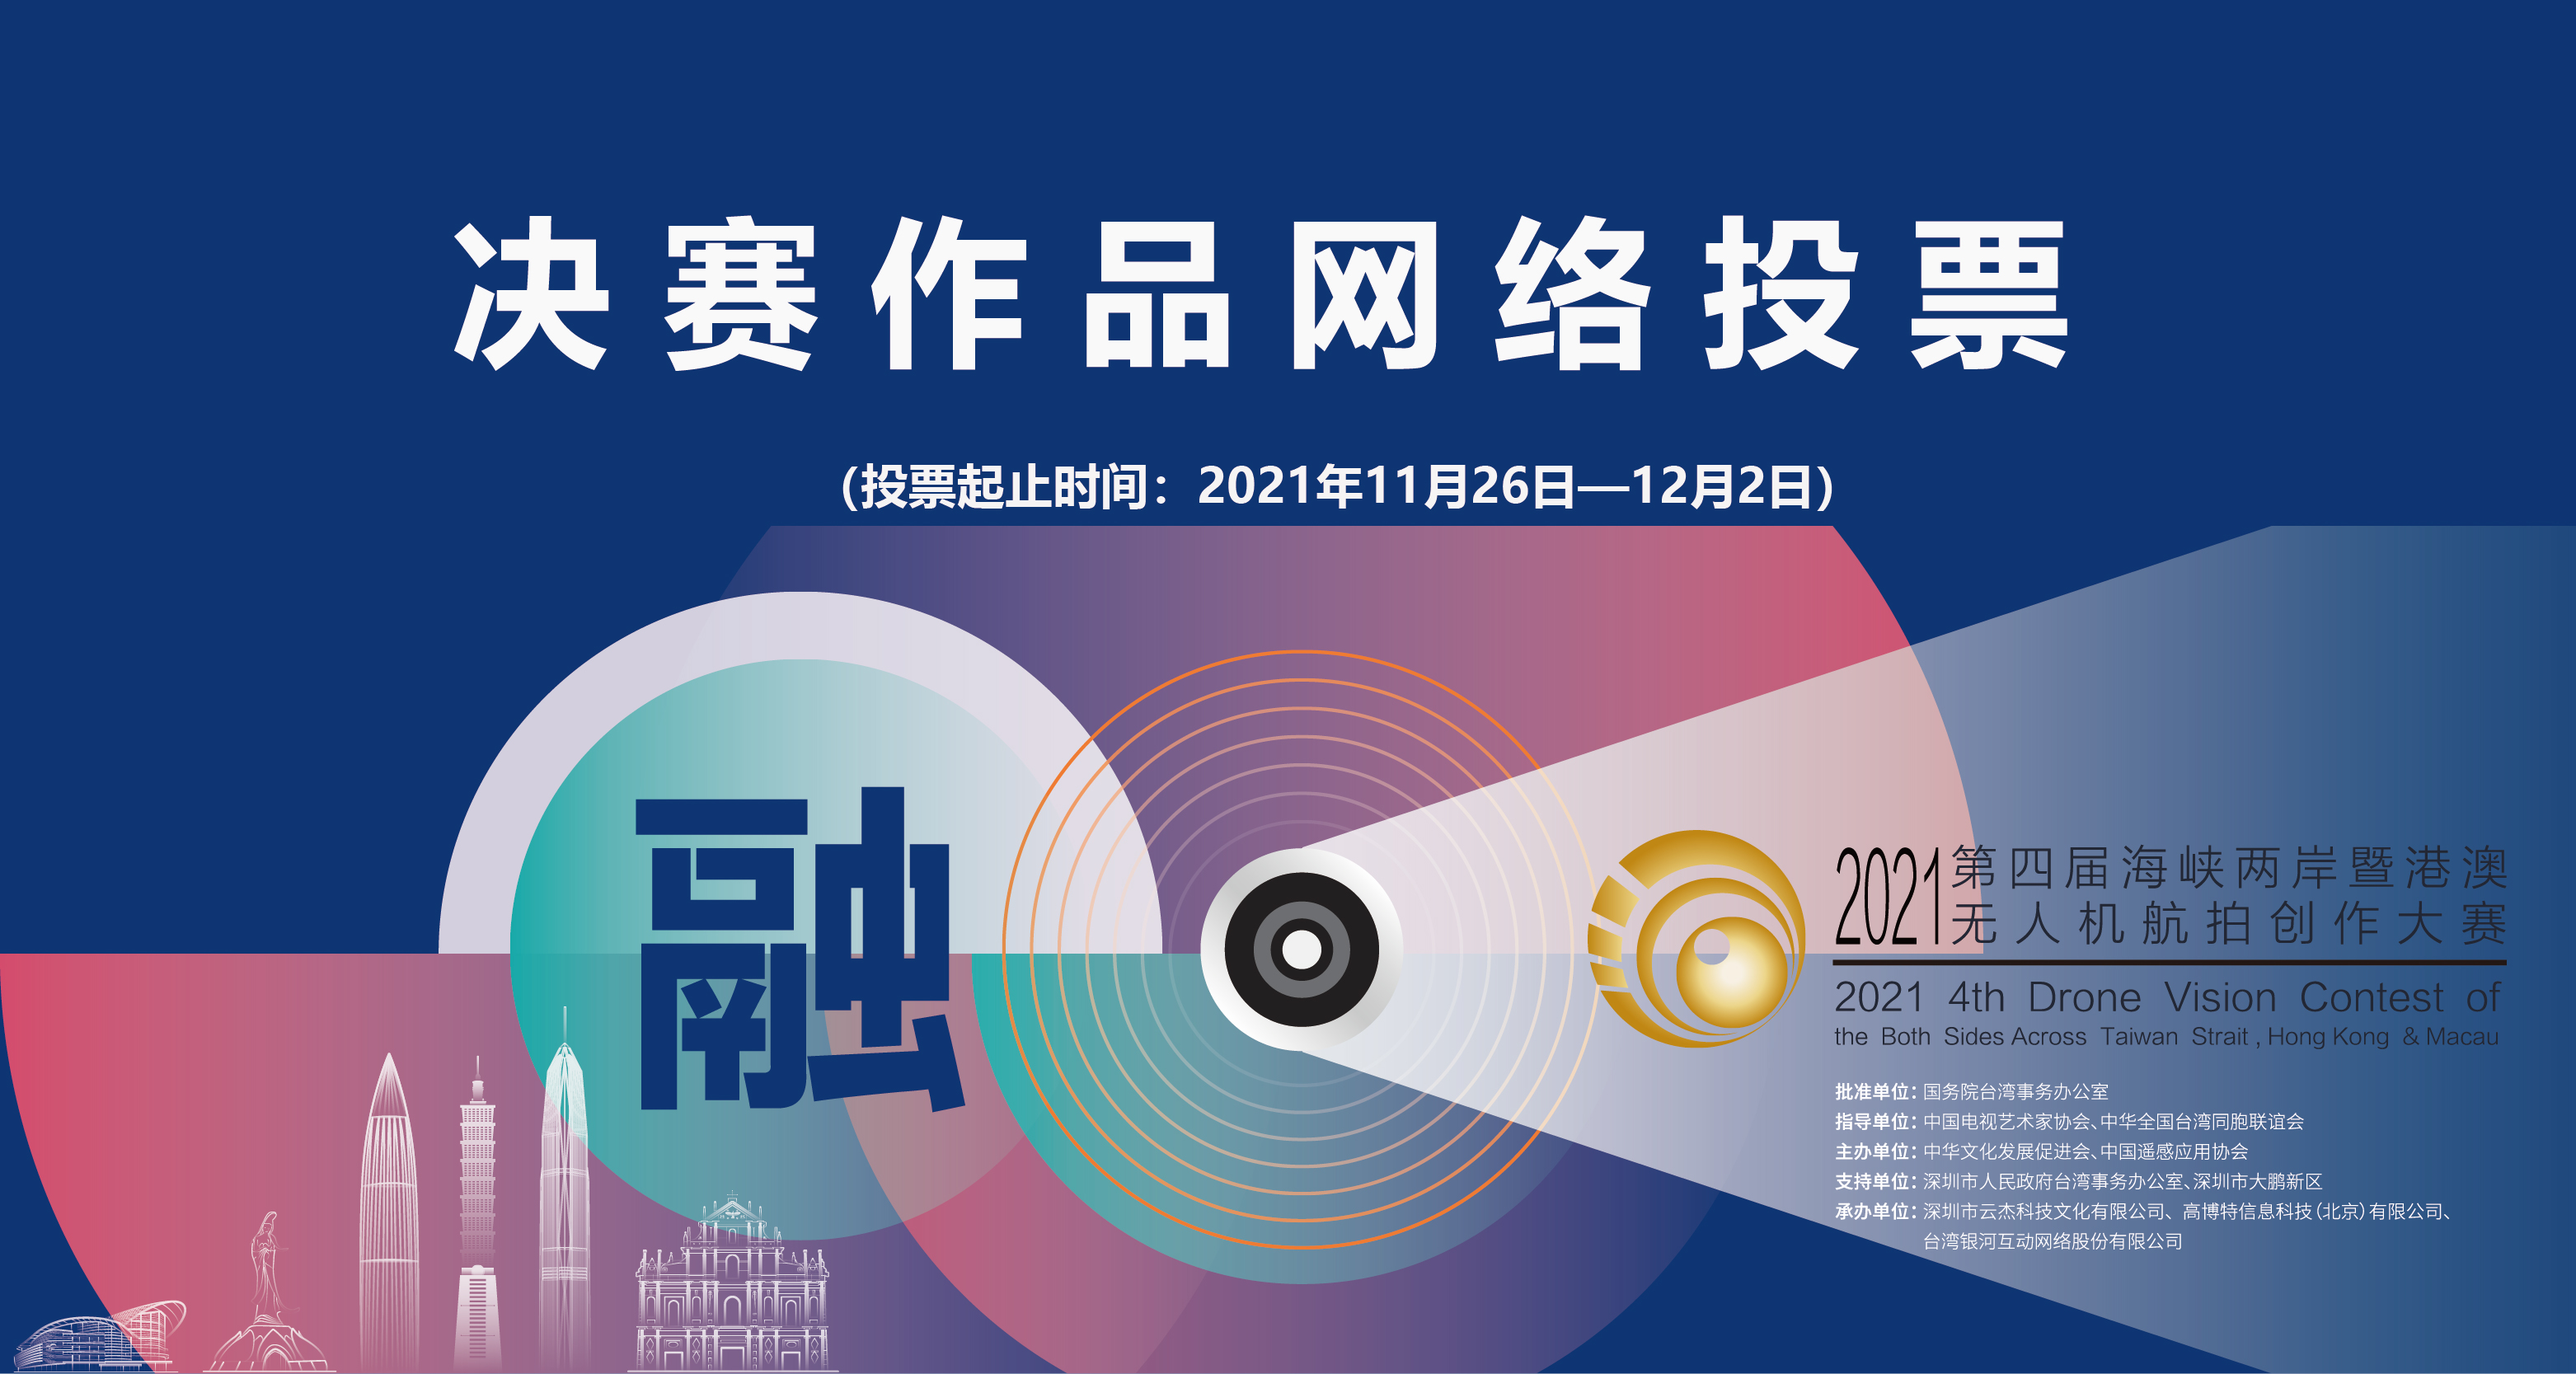
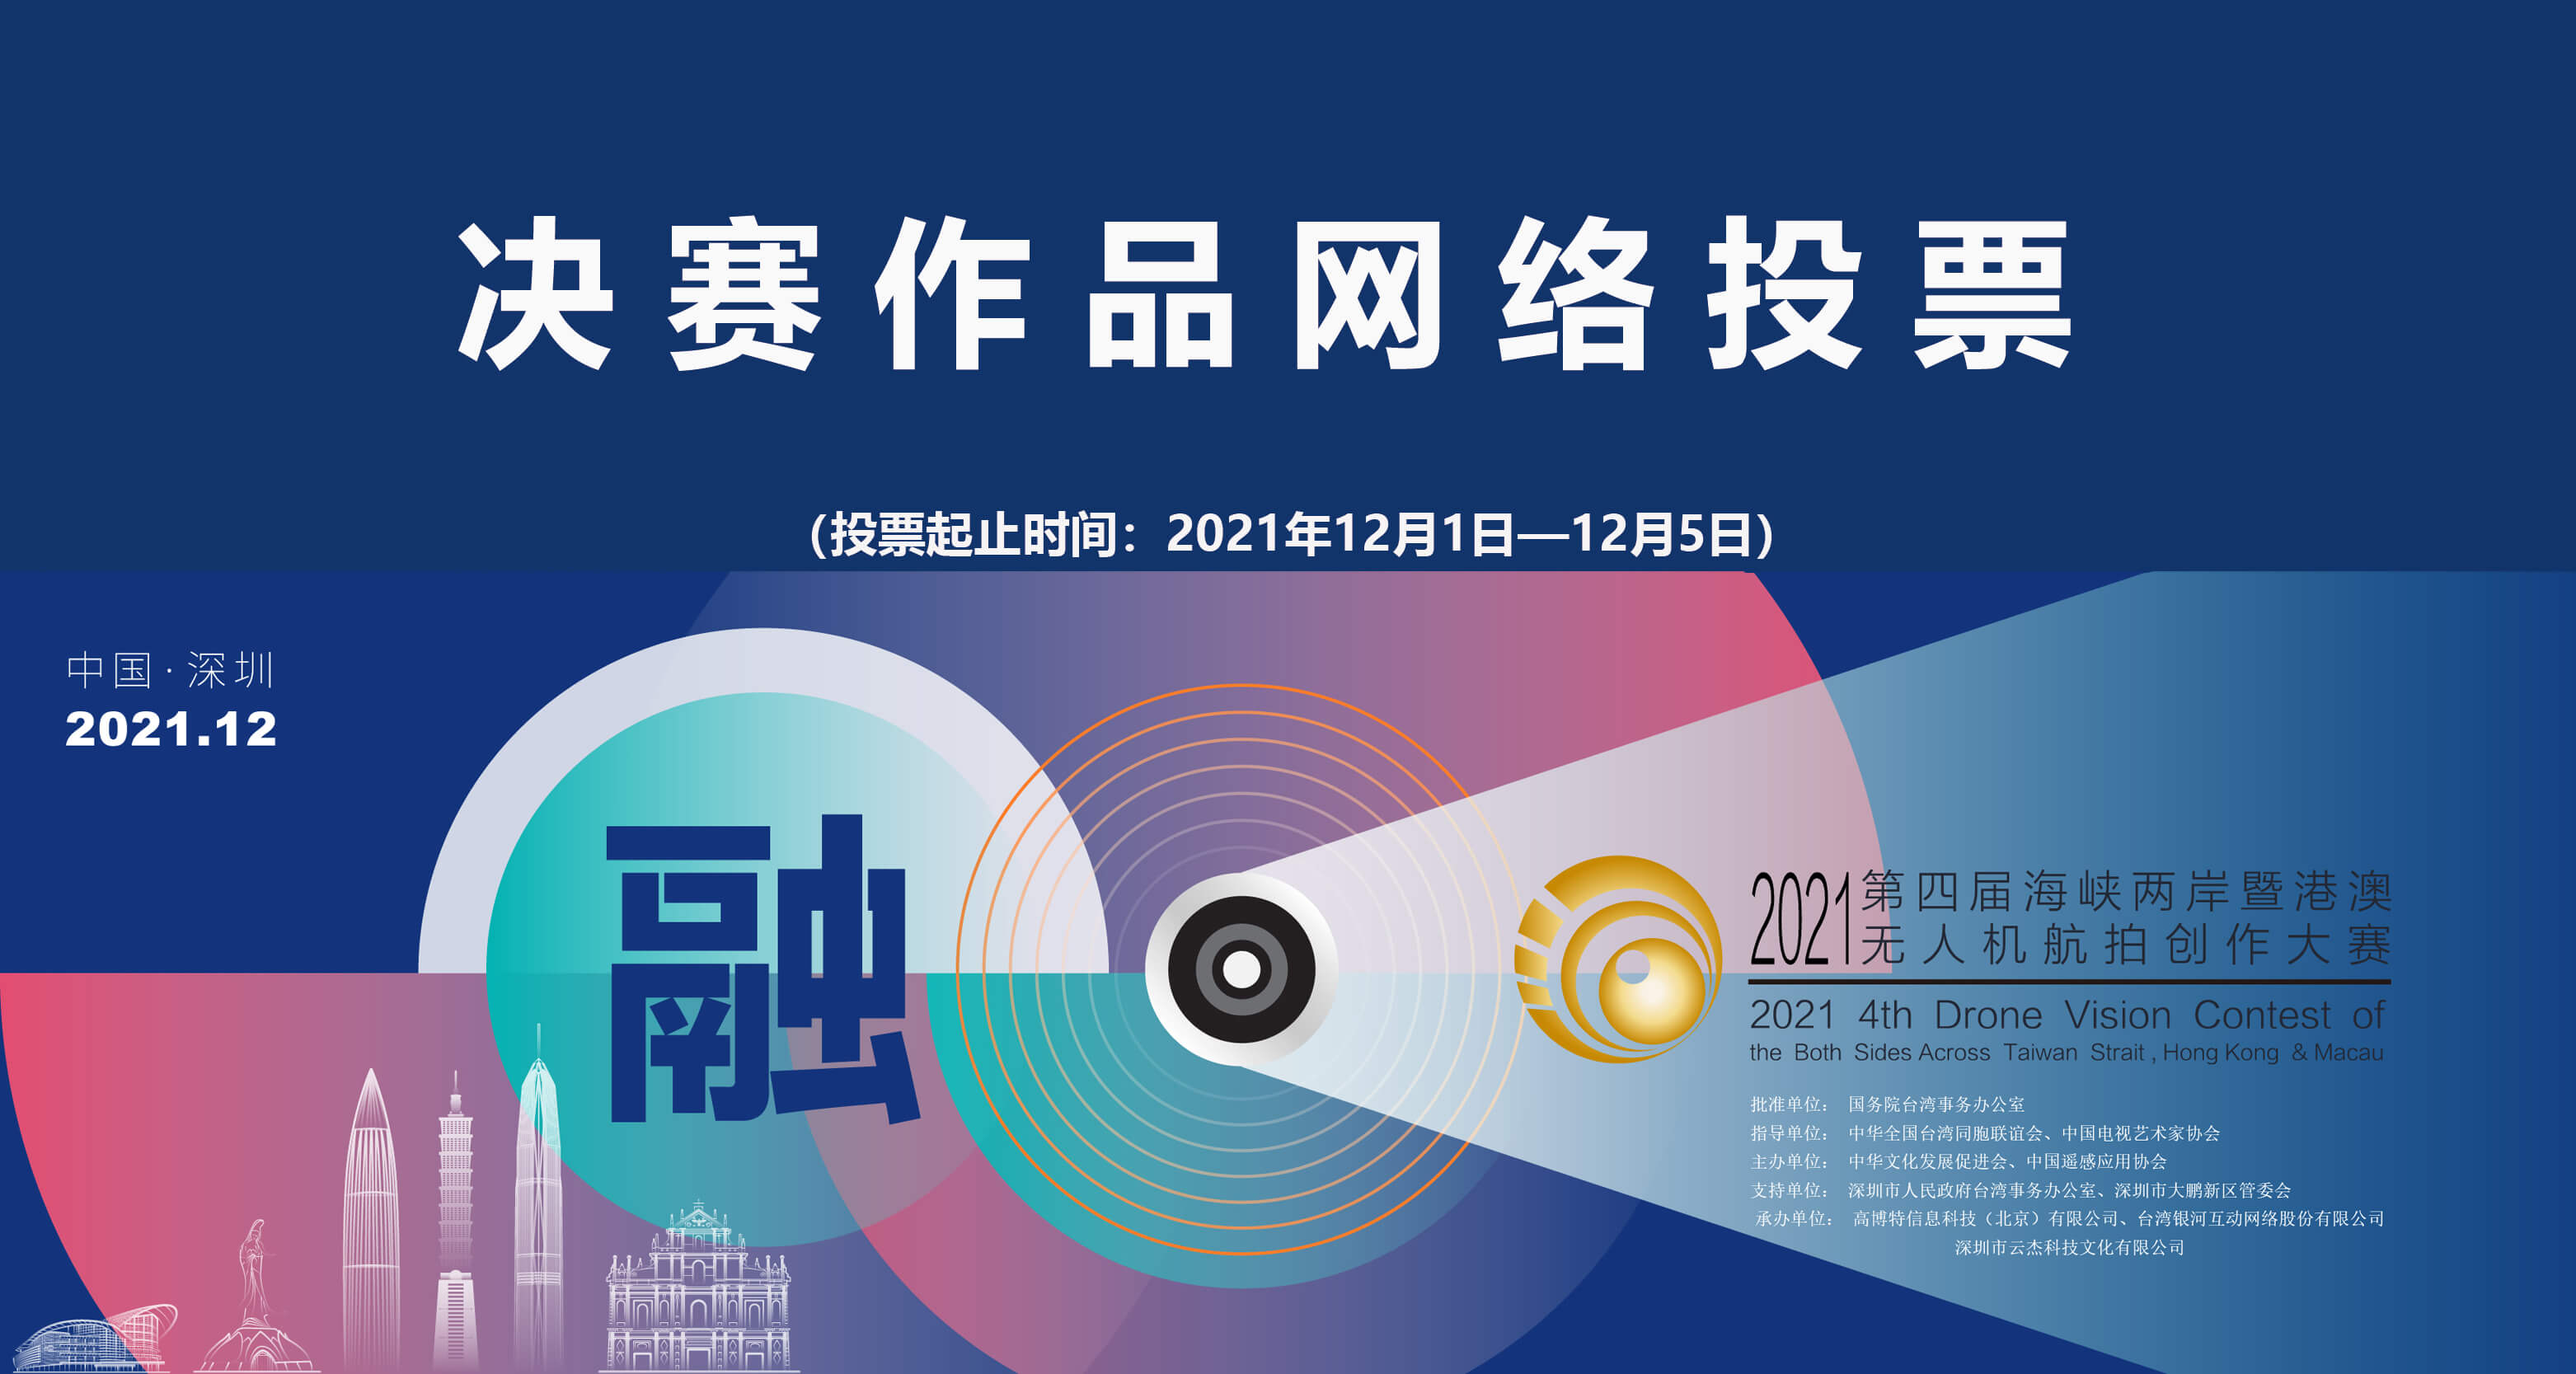
feat:修改问题

diff --git a/src/views/Index.vue b/src/views/Index.vue
@@ -65,19 +65,19 @@
           class="row_center"
         >
           <img src="@/assets/images/fll.png" />
-          初赛作品投票规则
+          决赛作品投票规则
         </div>
         <div style="text-align:left">
           <van-icon name="clock-o" color="#1989fa" />
-          投票开始：2021-10-22 08:00
+          投票开始：2021-12-01 00:00
         </div>
         <div style="text-align:left">
           <van-icon name="clock-o" color="#1989fa" />
-          投票结束：2021-10-28 22:00
+          投票结束：2021-12-05 23:59
         </div>
         <div style="text-align:left">
           <van-icon name="info-o" color="#1989fa" />
-          投票规则：每个微信号每天可以投票10次（每天可为同一作品投票10次，也可为不同作品分别投票）
+          投票规则：每个微信号每天可以投票10次（每天可为同一作品投票10次，也可为不同作品分别投票，但总投票数不可超过10票）
         </div>
         <div style="text-align:left">
           <van-icon name="orders-o" color="#1989fa" />
@@ -117,8 +117,8 @@ export default class Index extends Vue {
     ;(window as any).show = true
   }
   preView(item: any) {
-    // Toast({ message: '活动已结束吧', icon: 'none' })
-    this.$router.push(`/detail/${item.id}`)
+    Toast({ message: '活动已结束', icon: 'none' })
+    // this.$router.push(`/detail/${item.id}`)
   }
   toWeb() {
     window.location.href = 'https://www.uavdvc.com/'
@@ -191,10 +191,11 @@ export default class Index extends Vue {
 .bg_view {
   background-image: url('../assets/images/WechatIMG424.jpeg');
   background-repeat: no-repeat;
+  width: 100vw;
   height: calc(#{$height-primary} - constant(safe-area-inset-bottom) - 100px);
   height: calc(#{$height-primary} - env(safe-area-inset-bottom) - 100px);
   position: relative;
-  height: 1;
+  background-size: 100% 100%;
 }
 .bg_scroll {
   height: calc(#{$height-primary} - constant(safe-area-inset-bottom) - 100px);

diff --git a/src/views/Detail.vue b/src/views/Detail.vue
@@ -106,12 +106,12 @@ export default class extends Vue {
   bottom: 20vh;
   border-radius: 50%;
   right: 20px;
-  height: 100px;
+  height: 80px;
   background: #fff;
   text-align: center;
-  line-height: 100px;
+  line-height: 80px;
   color: #333;
-  width: 100px;
+  width: 80px;
 }
 .deital_bg {
   background: black;
